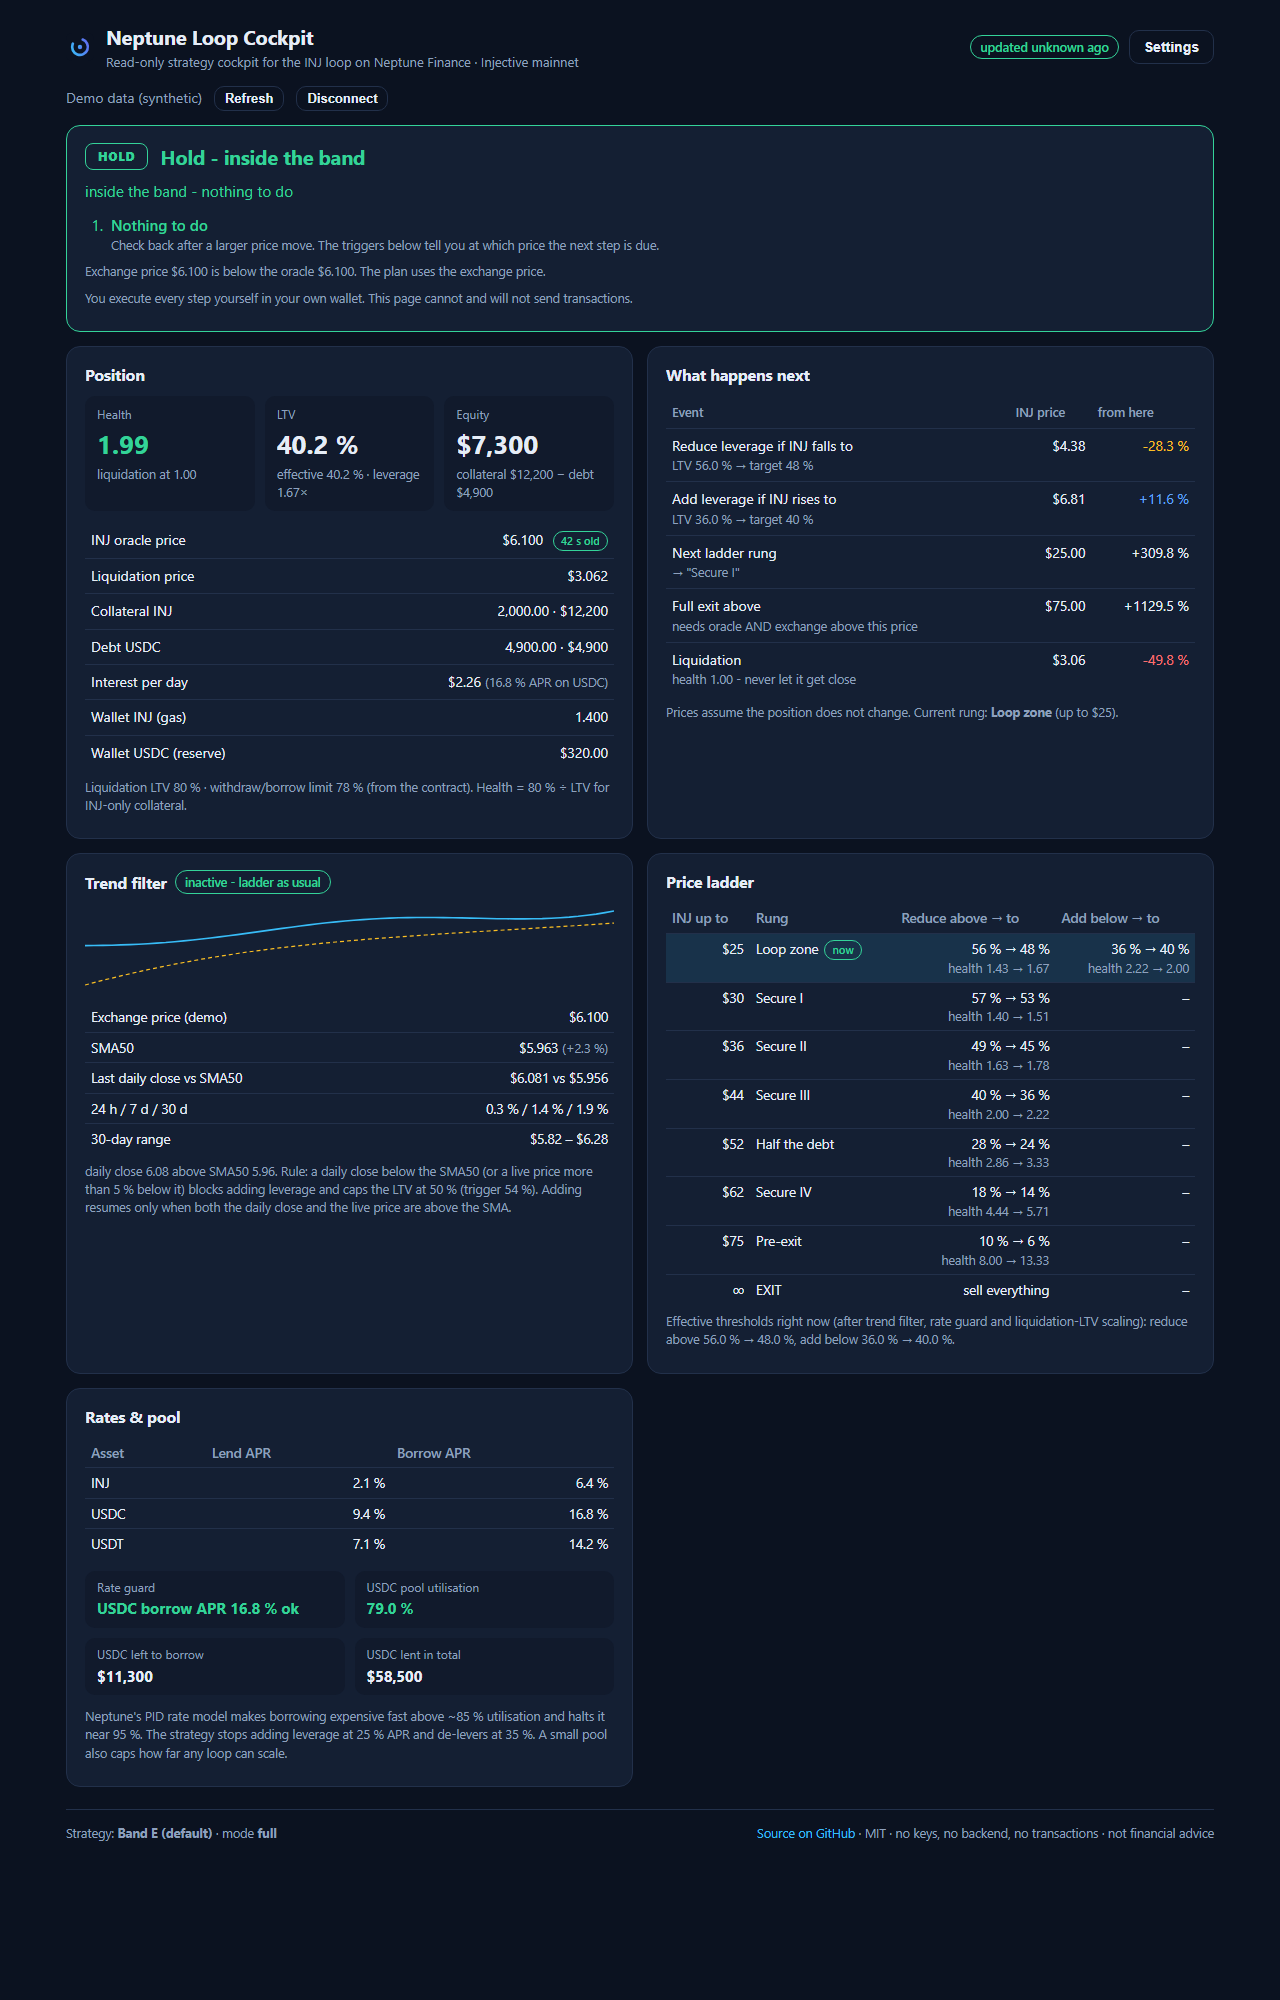
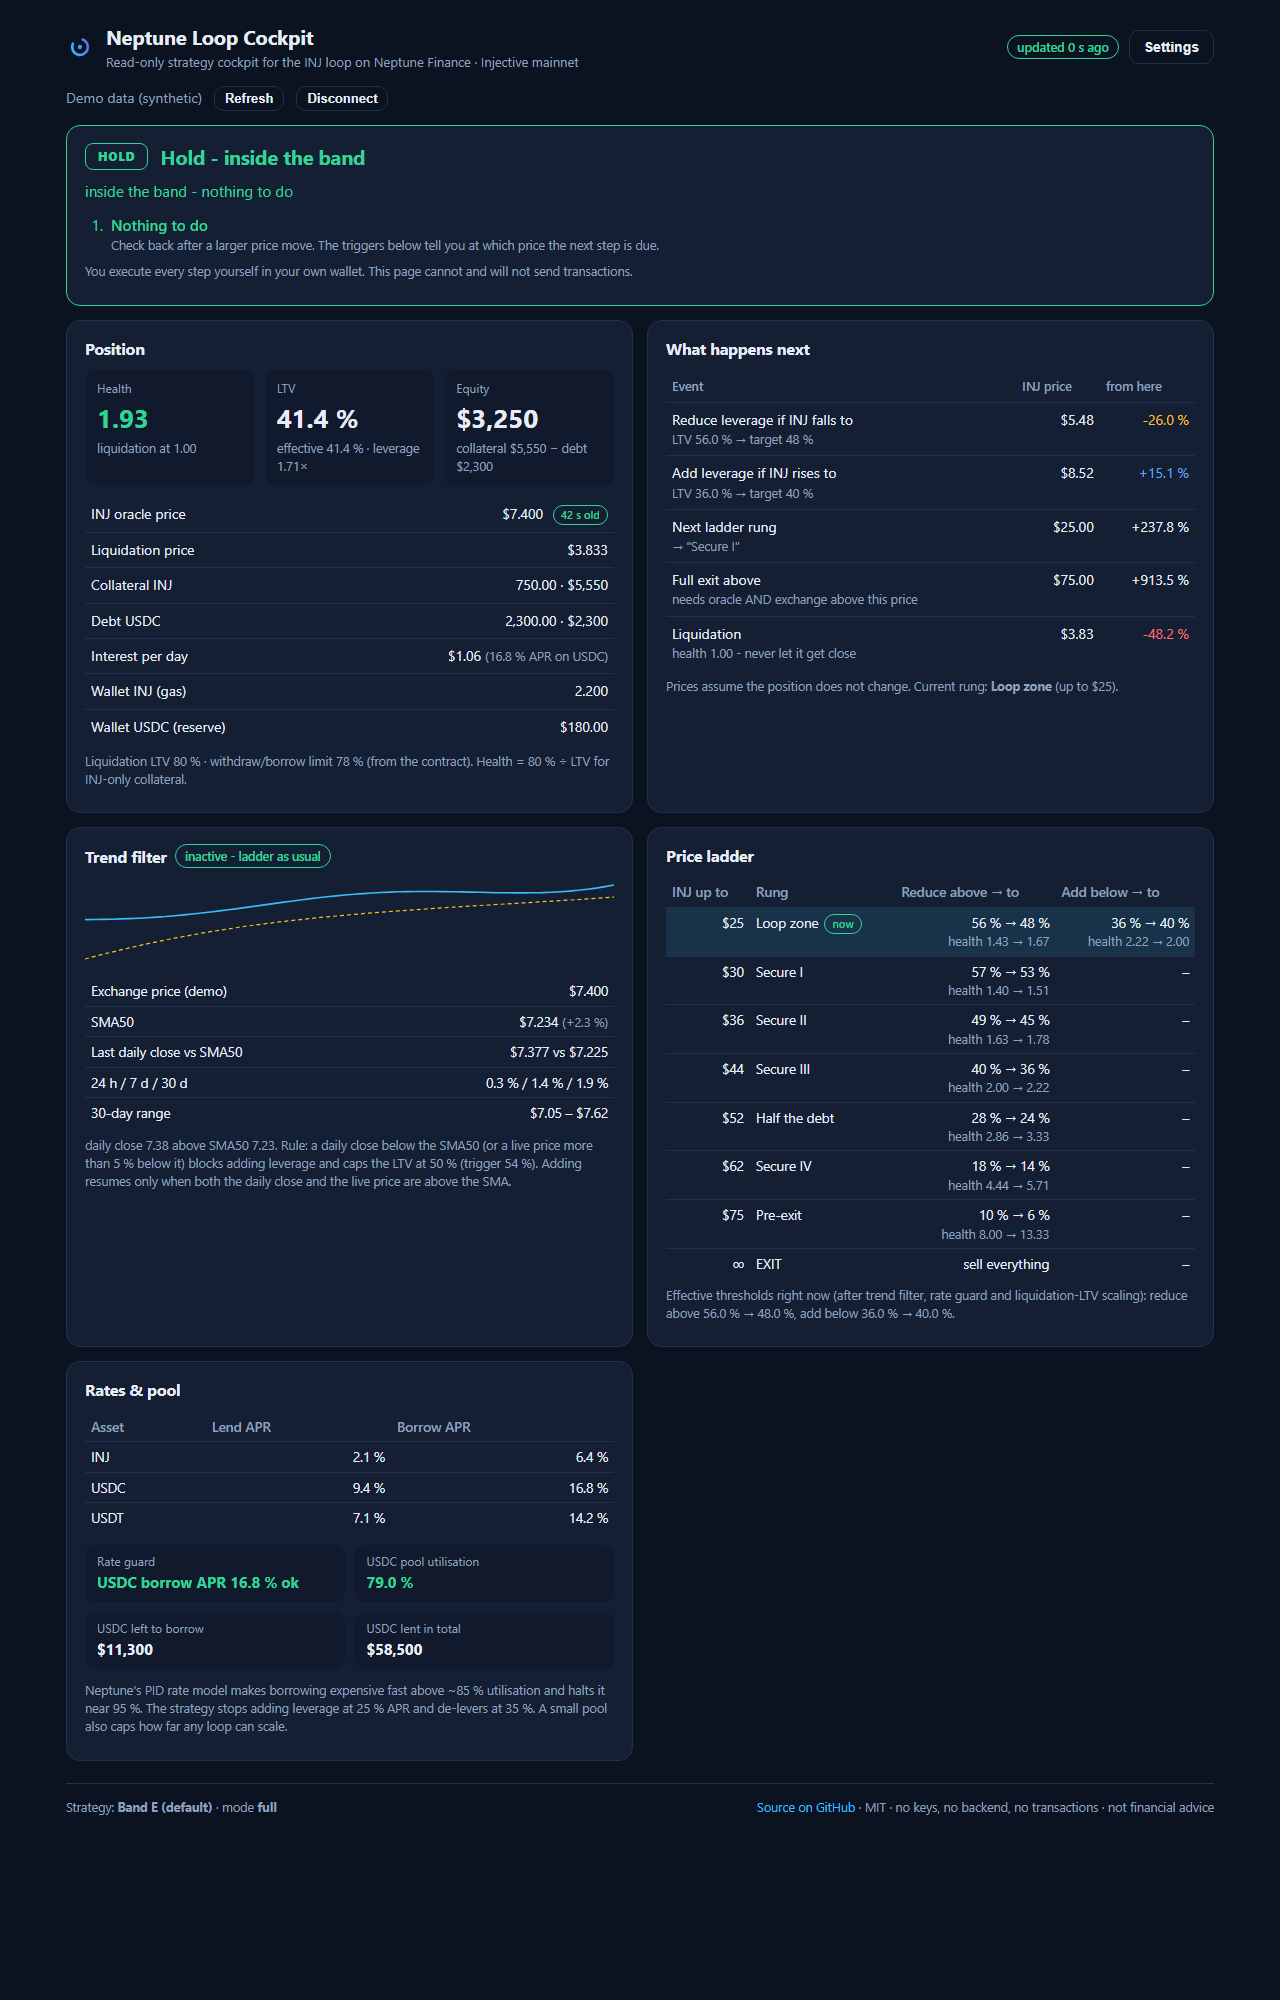
Privacy: generic demo and backtest figures
Demo data and backtest starting position no longer resemble any real
position (750 INJ / $2,300 demo, 1,000 INJ / $2,700 backtest). Screenshot
regenerated, STRATEGY.md table re-run with the generic start.

Claude-Session: https://claude.ai/code/session_015JAs4b2xsm5w7ZXfvmAGxH

diff --git a/src/demo/demo.ts b/src/demo/demo.ts
@@ -10,9 +10,9 @@ import { ASSETS } from '../config/chain'
 export const DEMO_ADDRESS = 'inj1demo000000000000000000000000000000000'
 
 export function demoStatus(nowMs = Date.now()): Status {
-  const injPrice = 6.1
-  const inj = 2000
-  const debt = 4900
+  const injPrice = 7.4
+  const inj = 750
+  const debt = 2300
   const collateralUsd = inj * injPrice
   const ltv = debt / collateralUsd
   const health = 0.8 / ltv
@@ -35,8 +35,8 @@ export function demoStatus(nowMs = Date.now()): Status {
       { symbol: 'USDT', lend: 0.071, borrow: 0.142 },
     ],
     bank: [
-      { symbol: 'INJ', denom: ASSETS.INJ.denom, amount: 1.4, usd: 1.4 * injPrice },
-      { symbol: 'USDC', denom: ASSETS.USDC.denom, amount: 320, usd: 320 },
+      { symbol: 'INJ', denom: ASSETS.INJ.denom, amount: 2.2, usd: 2.2 * injPrice },
+      { symbol: 'USDC', denom: ASSETS.USDC.denom, amount: 180, usd: 180 },
     ],
     oracleAgeSec: 42,
     injLiqLtv: 0.8,
@@ -56,7 +56,7 @@ export function demoTrend(smaDays = 50, panicPct = 0.05): Trend {
     p = Math.max(1, p * (1 + 0.004 + wave * 0.02))
     closes.push(p)
   }
-  const scale = 6.1 / closes[closes.length - 1]
+  const scale = 7.4 / closes[closes.length - 1]
   const candles = closes.map((c) => ({ close: c * scale, high: c * scale * 1.03, low: c * scale * 0.97 }))
   return computeTrend(candles, 'demo', { smaDays, panicPct })
 }

diff --git a/backtest/sim.ts b/backtest/sim.ts
@@ -70,8 +70,8 @@ export function simulate(days: Day[], o: SimOptions): SimResult {
   const STEPS = o.steps ?? 24
   const n = o.smaDays ?? 50
   const panicPct = o.panicPct ?? 0.05
-  let inj = o.inj ?? 2139
-  let debt = o.debt ?? 6673
+  let inj = o.inj ?? 1000
+  let debt = o.debt ?? 2700
   let usdc = 0
   let buys = 0
   let sells = 0
@@ -156,7 +156,7 @@ export function simulate(days: Day[], o: SimOptions): SimResult {
  * Benchmark: hold the same starting EQUITY in INJ without leverage (no debt, no interest).
  * Starting equity = inj * P0 - debt, converted into INJ at the first live close.
  */
-export function holdResult(days: Day[], inj = 2139, debt = 6673): { equity: number; maxDrawdownPct: number } {
+export function holdResult(days: Day[], inj = 1000, debt = 2700): { equity: number; maxDrawdownPct: number } {
   const live = days.filter((d) => !d.warm)
   const p0 = live[0].c
   const units = (inj * p0 - debt) / p0

diff --git a/backtest/run.ts b/backtest/run.ts
@@ -17,8 +17,9 @@ const here = dirname(fileURLToPath(import.meta.url))
 const DATA: Day[] = JSON.parse(readFileSync(join(here, 'data', 'inj_daily.json'), 'utf8'))
 const NOW = DATA[DATA.length - 1].c
 const ladder = DEFAULT_STRATEGY.ladder
-const startInj = 2139
-const startDebt = 6673
+// Generic starting position: 1,000 INJ collateral, $2,700 debt (LTV ~45 % at the rescaled price). Not anyone's real position.
+const startInj = 1000
+const startDebt = 2700
 
 const WINDOWS: [string, string, string][] = [
   ['2021 bull (Nov20 -> Apr21)', '2020-11-01', '2021-04-30'],

diff --git a/docs/STRATEGY.md b/docs/STRATEGY.md
@@ -102,19 +102,21 @@ Given a decision, the planner computes:
 
 ## 4. Backtest honesty
 
-The repository ships a simulator (`npm run backtest`) and the INJ daily history since Binance listing (Oct 2020). Results for the default configuration, rolling 12-month windows, starting from 2,139 INJ collateral and $6,673 debt rescaled to INJ = $5.93 (equity ≈ $6,000), 16 % APR, 1 % trade cost, run on 2026-09-03:
+The repository ships a simulator (`npm run backtest`) and the INJ daily history since Binance listing (Oct 2020). Results for the default configuration, rolling 12-month windows, starting from a generic position of 1,000 INJ collateral and $2,700 debt (LTV ≈ 45 %) with every window rescaled to INJ = $5.93 (equity ≈ $3,200), 16 % APR, 1 % trade cost, run on 2026-09-03:
 
 | Statistic | Loop (default) | Hold the same equity in INJ, no leverage |
 |---|---|---|
 | Windows | 1,711 | 1,711 |
-| Mean multiple | 3.23× | 2.49× |
+| Mean multiple | 3.29× | 2.49× |
 | Median multiple | 0.09× | 0.54× |
 | Windows ending with < 20 % of the equity | 61 % | – |
 | Simulated liquidations | 0 | – |
-| Loop beats the unleveraged hold | 22 % of windows | – |
-| Bull windows (INJ ≥ 3× in 12 months): share / loop mean / loop median | 24 % / 12.4× / 7.0× | – |
-| Modest-bull windows (INJ 1.3–3×): loop mean / median / share below 1× | 1.56× / 1.63× / 44 % | – |
+| Loop beats the unleveraged hold | 23 % of windows | – |
+| Bull windows (INJ ≥ 3× in 12 months): share / loop mean / loop median | 24 % / 12.7× / 6.9× | – |
+| Modest-bull windows (INJ 1.3–3×): loop mean / median / share below 1× | 1.58× / 1.67× / 44 % | – |
 | Down windows (INJ < 1×): loop median / hold median | 0.03× / 0.36× | – |
+
+The multiples are scale-free: a position ten times larger produces the same table until the USDC pool's free liquidity becomes the limit.
 
 Read that table as follows:
 
@@ -124,7 +126,7 @@ Read that table as follows:
 4. **Zero simulated liquidations is not zero real liquidations.** The simulator assumes you act at every intraday step. A human acting once a day would have been liquidated in several windows. Read [RISKS.md](RISKS.md).
 5. **Costs matter less than path.** Removing interest and slippage from the simulation barely changes the medians; the loss in flat and down markets is volatility drag plus the cap, not fees.
 
-The named windows (`npm run backtest` without flags) show the same picture in detail: the 2021 and 2023 bull runs end in an exit with $215k from $6k of equity; sideways ends near zero; both bear windows end at zero equity but alive.
+The named windows (`npm run backtest` without flags) show the same picture in detail: the 2021 and 2023 bull runs end in an exit at roughly 35× the starting equity; sideways ends near zero; both bear windows end at zero equity but alive.
 
 ## 5. Where the defaults came from
 

diff --git a/backtest/README.md b/backtest/README.md
@@ -21,7 +21,7 @@ Windows are rescaled so the first live day equals the last price in the data set
 
 ## Reading the output
 
-`216k / DD 56% / EXIT / minH 1.383` means: final equity $216k, max drawdown 56 %, the strategy exited above $75, and the lowest health along the way was 1.383. `LIQ` means liquidated.
+`120k / DD 56% / EXIT / minH 1.383` means: final equity $120k, max drawdown 56 %, the strategy exited above $75, and the lowest health along the way was 1.383. `LIQ` means liquidated. The starting position is a generic 1,000 INJ / $2,700 debt; change `startInj` / `startDebt` in `run.ts` for your own size (results scale linearly until pool liquidity binds).
 
 Before you compare variants, read `docs/STRATEGY.md#backtest-honesty`: the rolling windows overlap by 364 of 365 days, there are about five independent observations and exactly one independent bull run in the data. The simulator answers "does the strategy fall apart if a parameter moves?" (no) and "what order of magnitude?" — not "is 0.48 better than 0.50".
 
